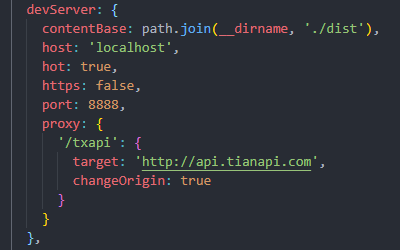
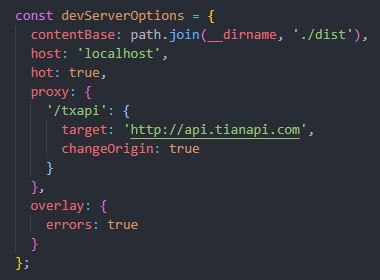
create build.js & server.js

diff --git a/build.js b/build.js
@@ -1,0 +1,32 @@
+const chalk = require('chalk')
+const webpack = require('webpack')
+const { merge } = require('webpack-merge')
+
+const commonConfig = require('./webpack.common')
+const prodConfig = require('./webpack.prod')
+const getStyleRules = require('./config/style-file-loader-config')
+
+const NODE_ENV = process.env.NODE_ENV
+const config = merge(commonConfig, prodConfig, {
+  module: {
+    rules: getStyleRules(NODE_ENV === 'development')
+  }
+})
+
+webpack(config, (err, stats) => {
+  if (err) throw err
+
+  process.stdout.write(
+    stats.toString({
+      // stats对象中保存着编译过程中的各种消息
+      colors: true, // 增加控制台颜色开关
+      modules: false, // 不增加内置模块信息
+      children: false, // 不增加子级信息
+      chunks: false, // 允许较少的输出
+      chunkModules: false, // 不将内置模块的信息加到包信息
+    }) + '\n\n'
+  )
+
+  console.log(chalk.cyan(' Build complete. \n'))
+  // console.log(chalk.yellow('  Tip: built files are meant to be served over an HTTP server.\n' + "  Opening index.html over file:// won't work.\n"));
+})

diff --git a/server.js b/server.js
@@ -1,0 +1,39 @@
+const { merge } = require('webpack-merge')
+const path = require('path')
+const webpackDevServer = require('webpack-dev-server')
+const webpack = require('webpack')
+
+const commonConfig = require('./webpack.common')
+const devConfig = require('./webpack.dev')
+const getStyleRules = require('./config/style-file-loader-config')
+
+const NODE_ENV = process.env.NODE_ENV
+const config = merge(commonConfig, devConfig, {
+  module: {
+    rules: getStyleRules(NODE_ENV === 'development'),
+  }
+})
+
+const devServerOptions = {
+  contentBase: path.join(__dirname, './dist'),
+  host: 'localhost',
+  hot: true,
+  open: true,
+  proxy: {
+    '/txapi': {
+      target: 'http://api.tianapi.com',
+      changeOrigin: true,
+    },
+  },
+  overlay: {
+    errors: true, // 编译出现错误时，错误直接贴到页面上
+  },
+}
+
+webpackDevServer.addDevServerEntrypoints(config, devServerOptions)
+const compiler = webpack(config)
+const server = new webpackDevServer(compiler, devServerOptions)
+
+server.listen(5000, 'localhost', () => {
+  console.log('dev server listening on port 5000')
+})

diff --git a/webpack.prod.js b/webpack.prod.js
@@ -1,13 +1,12 @@
-const common = require('./webpack.common')
-const { merge } = require('webpack-merge')
 const webpack = require('webpack')
 const MiniCssExtractPlugin = require('mini-css-extract-plugin');
+const WebpackProgressOraPlugin = require('webpack-progress-ora-plugin')
 
-getStyleRules = require('./config/style-file-loader-config')
+/* getStyleRules = require('./config/style-file-loader-config') */
 
 module.exports = merge(common, {
   mode: 'production',
-  // devtool: 'source-map',
+  devtool: 'source-map',
   optimization: {
     // minimize: true, // 如果mode是production类型，minimize的默认值是true，执行默认压缩，
     splitChunks: {
@@ -36,15 +35,19 @@ module.exports = merge(common, {
       },
     },
   },
-  module: {
+  /* module: {
     rules: getStyleRules(false)
-  },
+  }, */
   plugins: [
     new webpack.DefinePlugin({
       'process.env.API': JSON.stringify('./'),
     }),
     new MiniCssExtractPlugin({
       filename: 'css/[name]-[hash].css'
+    }),
+    new WebpackProgressOraPlugin({
+      stderr_check: true,
+      interval: 300
     })
   ],
 })

diff --git a/webpack.dev.js b/webpack.dev.js
@@ -1,35 +1,13 @@
-const common = require('./webpack.common')
-const { merge } = require('webpack-merge')
 const path = require('path')
 const webpack = require('webpack')
 const MiniCssExtractPlugin = require('mini-css-extract-plugin')
 
-getStyleRules = require('./config/style-file-loader-config')
-
-module.exports = merge(common, {
+module.exports = {
   mode: 'development',
   output: {
     publicPath: '/',
   },
-  devServer: {
-    contentBase: path.join(__dirname, './dist'),
-    host: 'localhost',
-    hot: true,
-    https: false,
-    port: 8888,
-    proxy: {
-      '/txapi': {
-        target: 'http://api.tianapi.com',
-        changeOrigin: true,
-      },
-    },
-    overlay: {
-      errors: true, // 编译出现错误时，错误直接贴到页面上
-    },
-  },
-  module: {
-    rules: getStyleRules(true)
-  },
+  devtool: 'inline-source-map',
   plugins: [
     // new webpack.HotModuleReplacementPlugin(),
     new webpack.DefinePlugin({
@@ -39,4 +17,4 @@ module.exports = merge(common, {
       filename: 'css/[name].css'
     })
   ],
-})
+}

diff --git a/src/view/demo.html b/src/view/demo.html
@@ -72,7 +72,7 @@
     <div class="container mt-4">
       <p class="font-weight-light text-muted text-break mt-4">
         上面的显示的信息是对于Webpack请求代理配置的自验和功能展示，千万不要以为是广告植入。这里去请求了一个第三方的接口地址，如果你目前是通过npm start启动的项目，<!--
-        -->那么这些数据是动态获取的，如果你是从dist中直接打开的本地页面，那么这些数据从有页面引入的json中获取。代理接口地址的修改在webpack.dev.js中可以看到proxy属性，请根据自己项目情况自行设定。
+        -->那么这些数据是动态获取的，如果你是从dist中直接打开的本地页面，那么这些数据从有页面引入的json中获取。代理接口地址的修改在dev-server.js中可以看到proxy属性，请根据自己项目情况自行设定。
       </p>
       <img src="../static/img/proxy-set.png" class="rounded d-block" />
 

diff --git a/config/html-webpack-config.js b/config/html-webpack-config.js
@@ -19,9 +19,9 @@ function getHtmlConfig(name) {
     chunks: [name],
     template: `./src/view/${name}.html`,
     filename: `${name}.html`,
-    favicon: './static/logo.png',
+    favicon: './static/logo.png', //该配置回导致在html同级目录下多出一个logo.png文件
     hash: true,
-    inject: 'body'
+    inject: 'body',
   }
 }
 
